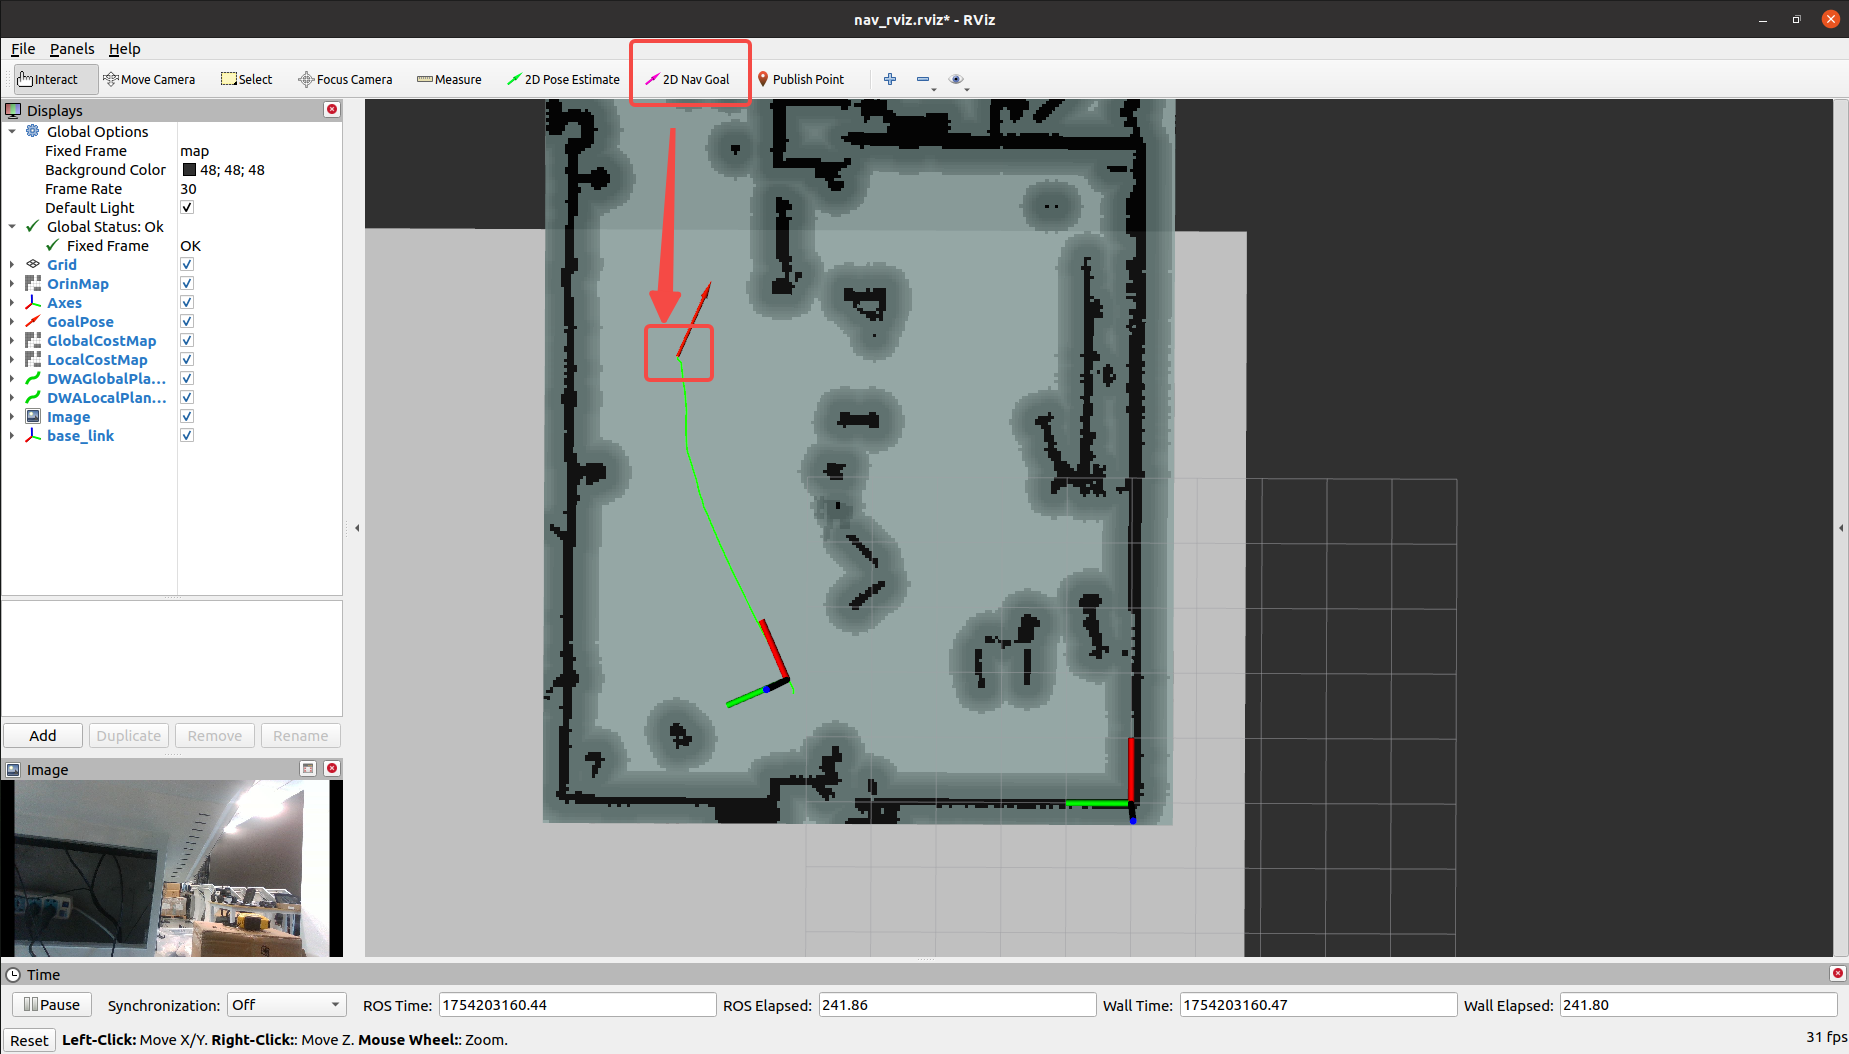
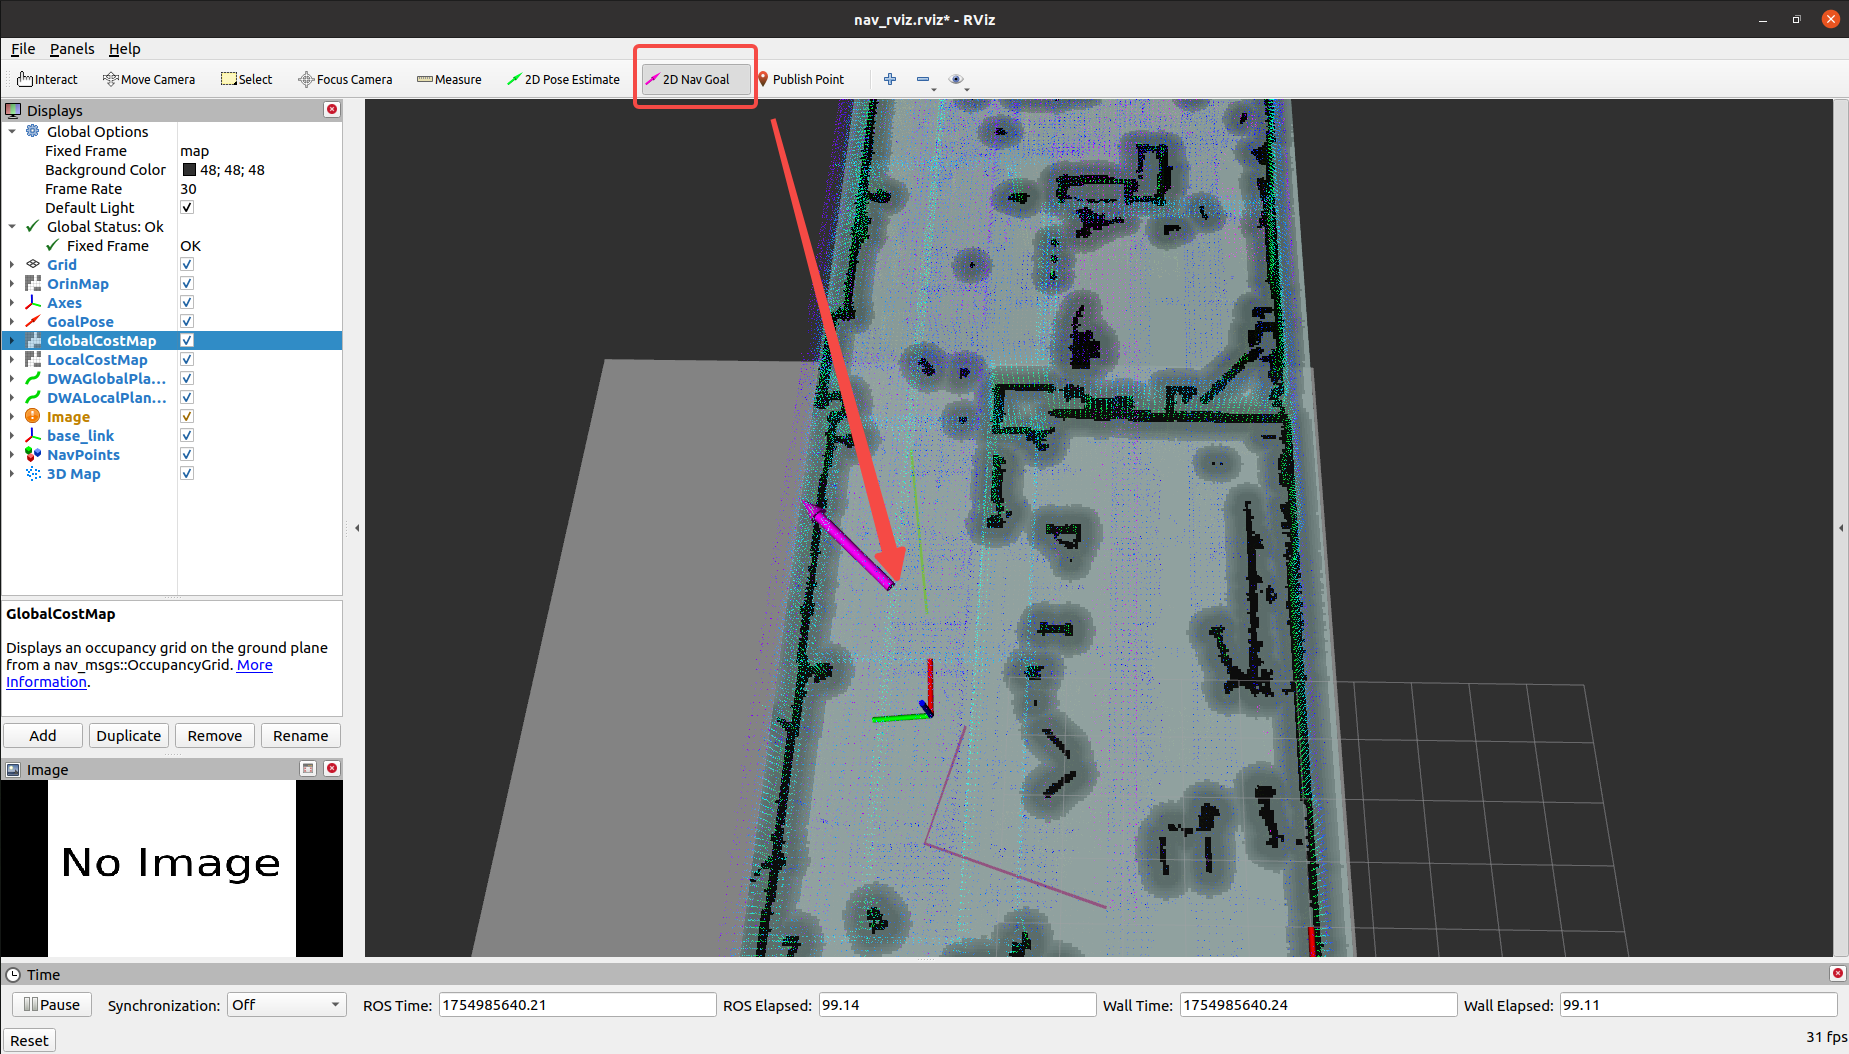
add 3d map display node

diff --git a/mixed_nav/scripts/pcd_map_publisher.py b/mixed_nav/scripts/pcd_map_publisher.py
@@ -1,0 +1,82 @@
+#!/usr/bin/env python3
+# -*- coding: utf-8 -*-
+
+import rospy
+from pyntcloud import PyntCloud
+
+from sensor_msgs.msg import PointCloud2
+from sensor_msgs import point_cloud2
+from std_msgs.msg import Header
+
+def main():
+    # 1. 初始化ROS节点
+    rospy.init_node('pcd_map_publisher_pynt', anonymous=True)
+
+    # 2. 从私有参数服务器获取参数
+    pcd_file_path = rospy.get_param('~pcd_file_path', '')
+    frame_id = rospy.get_param('~frame_id', 'map')
+    topic_name = rospy.get_param('~topic_name', '/pointcloud_map')
+    max_points = rospy.get_param('~max_points_before_downsample', 2000000)
+    leaf_size = rospy.get_param('~leaf_size', 0.1)
+
+    if not pcd_file_path:
+        rospy.logerr("Parameter 'pcd_file_path' is not set! Please provide the absolute path to the .pcd file.")
+        return
+
+    rospy.loginfo("Loading PCD map from: %s using pyntcloud", pcd_file_path)
+    rospy.loginfo("Publishing on topic: %s with frame_id: %s", topic_name, frame_id)
+
+    # 3. 创建点云发布者 (锁存话题)
+    pub = rospy.Publisher(topic_name, PointCloud2, queue_size=1, latch=True)
+
+    # 4. 使用 pyntcloud 加载PCD文件
+    try:
+        cloud = PyntCloud.from_file(pcd_file_path)
+    except Exception as e:
+        rospy.logerr("Failed to load PCD file with pyntcloud: %s", str(e))
+        return
+    
+    point_count = len(cloud.points)
+    rospy.loginfo("Loaded point cloud with %d points.", point_count)
+
+    # 5. 检查是否需要下采样
+    points_to_publish_np = None
+    if point_count > max_points:
+        rospy.loginfo("Point cloud is too large (%d points > %d). Downsampling...", point_count, max_points)
+        
+        # 使用VoxelGrid的质心进行采样，效果等同于下采样
+        # 首先，需要为点云添加一个VoxelGrid结构
+        voxelgrid_id = cloud.add_structure("voxelgrid", size_x=leaf_size, size_y=leaf_size, size_z=leaf_size)
+        
+        # 然后，从该结构中采样质心点
+        sampled_cloud_df = cloud.get_sample("voxelgrid_centroids", voxelgrid_id=voxelgrid_id)
+        
+        rospy.loginfo("Downsampled to %d points.", len(sampled_cloud_df))
+        
+        # 从DataFrame中提取 x, y, z 列并转换为NumPy数组
+        points_to_publish_np = sampled_cloud_df[['x', 'y', 'z']].values
+    else:
+        rospy.loginfo("Point cloud size is within the limit. No downsampling needed.")
+        # 从原始点云的DataFrame中提取 x, y, z 列并转换为NumPy数组
+        points_to_publish_np = cloud.points[['x', 'y', 'z']].values
+    
+    # 6. 将NumPy点云数据转换为ROS PointCloud2 消息
+    header = Header()
+    header.stamp = rospy.Time.now()
+    header.frame_id = frame_id
+    
+    # 使用ROS的工具函数从NumPy数组创建消息
+    ros_msg = point_cloud2.create_cloud_xyz32(header, points_to_publish_np)
+
+    # 7. 发布消息
+    pub.publish(ros_msg)
+    rospy.loginfo("Point cloud map published. The node will keep running to latch the topic.")
+
+    # 8. 保持节点运行
+    rospy.spin()
+
+if __name__ == '__main__':
+    try:
+        main()
+    except rospy.ROSInterruptException:
+        pass

diff --git a/README.md b/README.md
@@ -36,7 +36,8 @@ $ sudo apt-get install libopenvdb-dev
 ```bash
 $ conda create -n mapconv python=3.10
 $ conda activate mapconv
-$ pip install numpy open3d PyYAML Pillow commentjson
+$ pip install "numpy<2.0"
+$ pip install cython open3d PyYAML Pillow commentjson pyntcloud rospkg
 ```
 
 ---
@@ -218,28 +219,27 @@ rosrun map_server map_server /home/orin/Desktop/nav_ws/src/mixed_nav/resources/2
 
 【可选】使用下面的命令查看一下生成的点云地图是否满足你的需求，如果不满足可以通过修改 $Z$ 轴的高度范围重新生成：
 
+下面的命令会同时加载一份 3D 点云地图，由于点云文件通常比较大，因此可能会消耗一定时间，如果你不想加载点云文件可以修改 `map_server.launch` 文件中的参数配置取消显示：
+
 ```bash
 $ cd nav_ws
 $ source devel/setup.bash 
-$ roslaunch mixed_nav view_map.launch
+$ roslaunch mixed_nav map_server.launch
 ```
 
-![view_map](mixed_nav/resources/images/view_map.png)
+![map_server](mixed_nav/resources/images/map_server.png)
 
 
 ---
-# Step5. 编辑导航点
+# Step5. 设置导航点
 
-你可以在 `waypoints` 文件夹中修改 `nav_points.json` 这个文件用来记录导航点，导航点包含了 **xyz空间坐标** 与 **四元数**，且有 **组**
- 的概念，在编写完成后使用下面的命令可以在 rviz 中查看这些导航点构成的可视化路径：
+你可以在 `waypoints` 文件夹中修改 `nav_points.json` 这个文件用来记录导航点，导航点包含了 **xyz空间坐标** 与 **四元数**，且有 **组** 的概念，在编写完成后使用下面的命令可以在 rviz 中查看这些导航点构成的可视化路径：
 
 ```bash
 $ cd nav_ws
 $ source devel/setup.bash 
-$ roslaunch mixed_nav visualize_path.launch
+$ roslaunch mixed_nav map_server.launch
 ```
-
-![path_points](mixed_nav/resources/images/path_points.png)
 
 ----
 # Step6. 启动仿真导航
